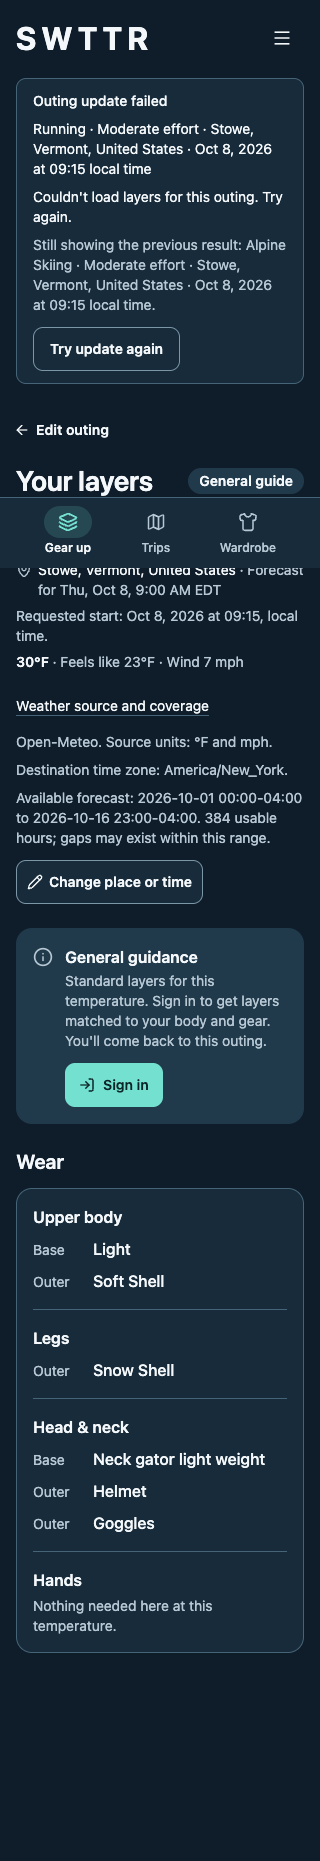
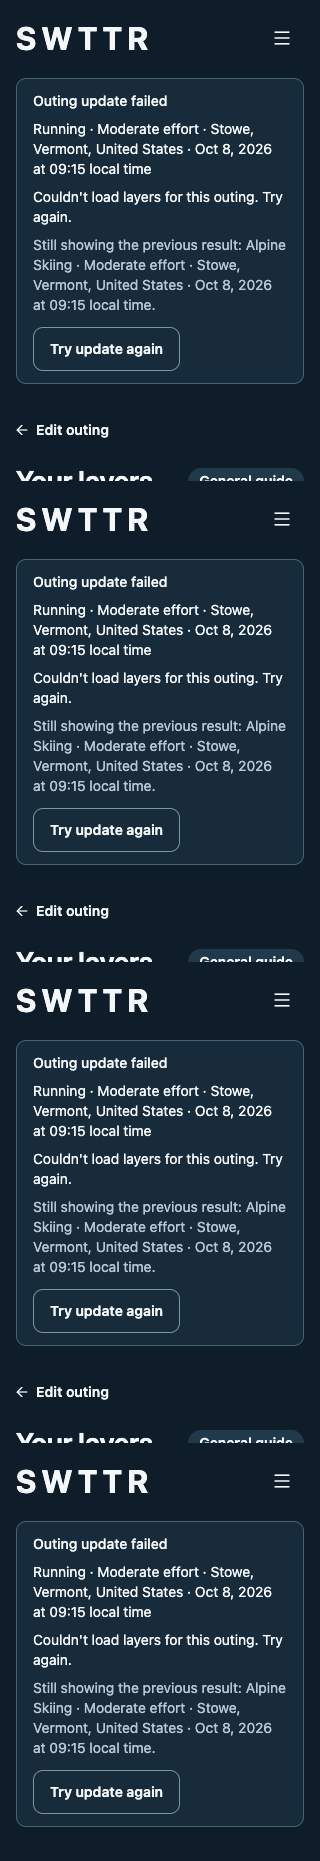
Record final outing contract acceptance checks

diff --git a/docs/qa/166-outing-contract/README.md b/docs/qa/166-outing-contract/README.md
@@ -4,7 +4,7 @@ This report completes the contract acceptance review after #215 (foundation) and
 
 ## Automated verification
 
-- Full Vitest suite: final result recorded below after verification. Recommendation golden snapshots are unchanged.
+- Full Vitest suite: **101 files, 1,275 tests pass** on the rebased branch (`NODE_OPTIONS=--no-experimental-webstorage caffeinate -i npx vitest run --maxWorkers=2`). Recommendation golden snapshots are unchanged. The focused contract/page/weather/header suite also passes: eight files, 185 tests. An earlier default-concurrency run timed out in several unrelated UI/database/ensemble suites; reducing workers and preventing idle sleep completed the full suite without changing tests or timeouts.
 - Additional focused coverage includes failed-outing retry, retained recommendation identity, old failures arriving during a newer request, weather/recommendation retirement, malformed current/forecast responses, unknown precipitation, provider timestamps, local coverage and missing metadata.
 - Existing tests retain coverage for auth expiry, account changes, targets-only/no usable gear, static/unsupported guidance, exact requested minutes, destination/device time-zone differences, daylight saving, partial forecasts, Edit outing, Start over, Back/reload and the native Plan compatibility event.
 - Lint, typecheck and knip pass.
